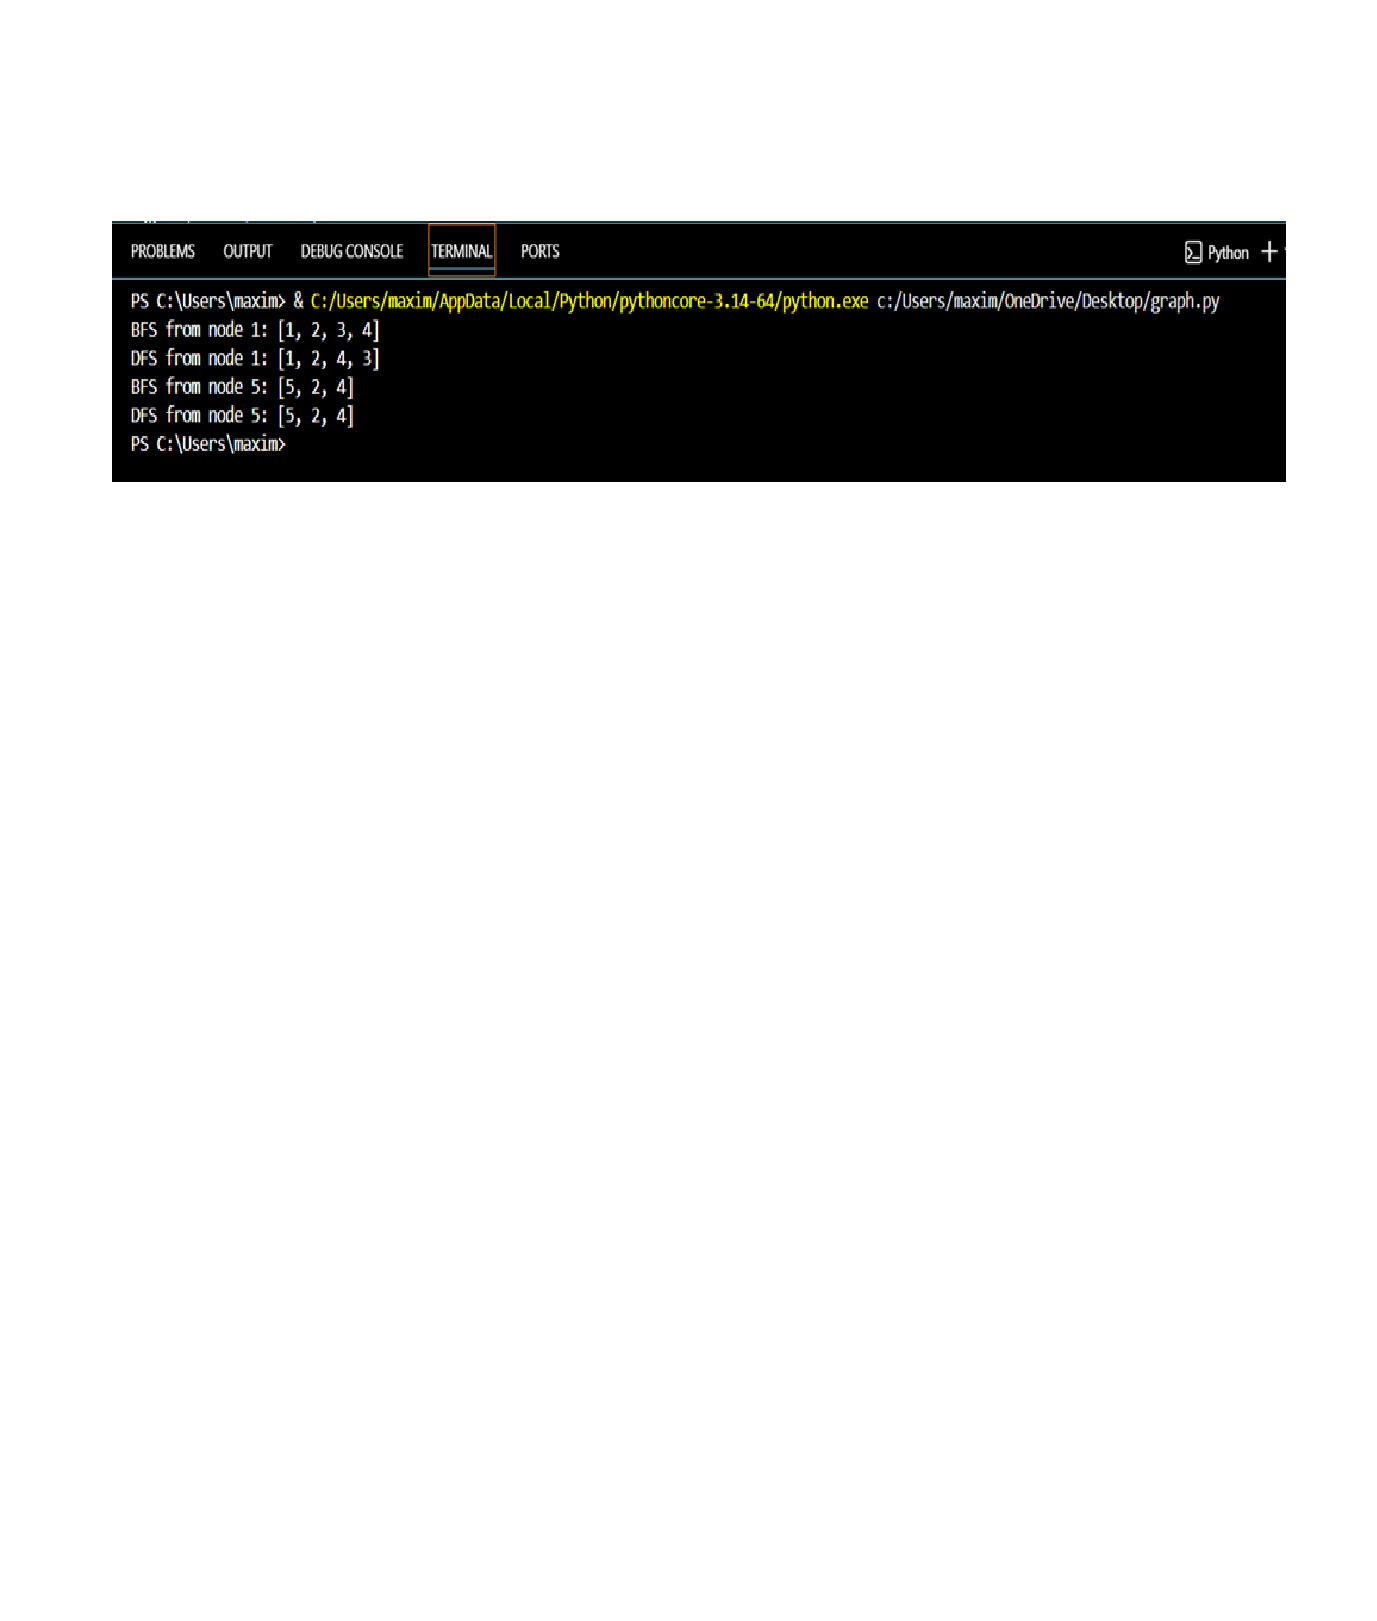
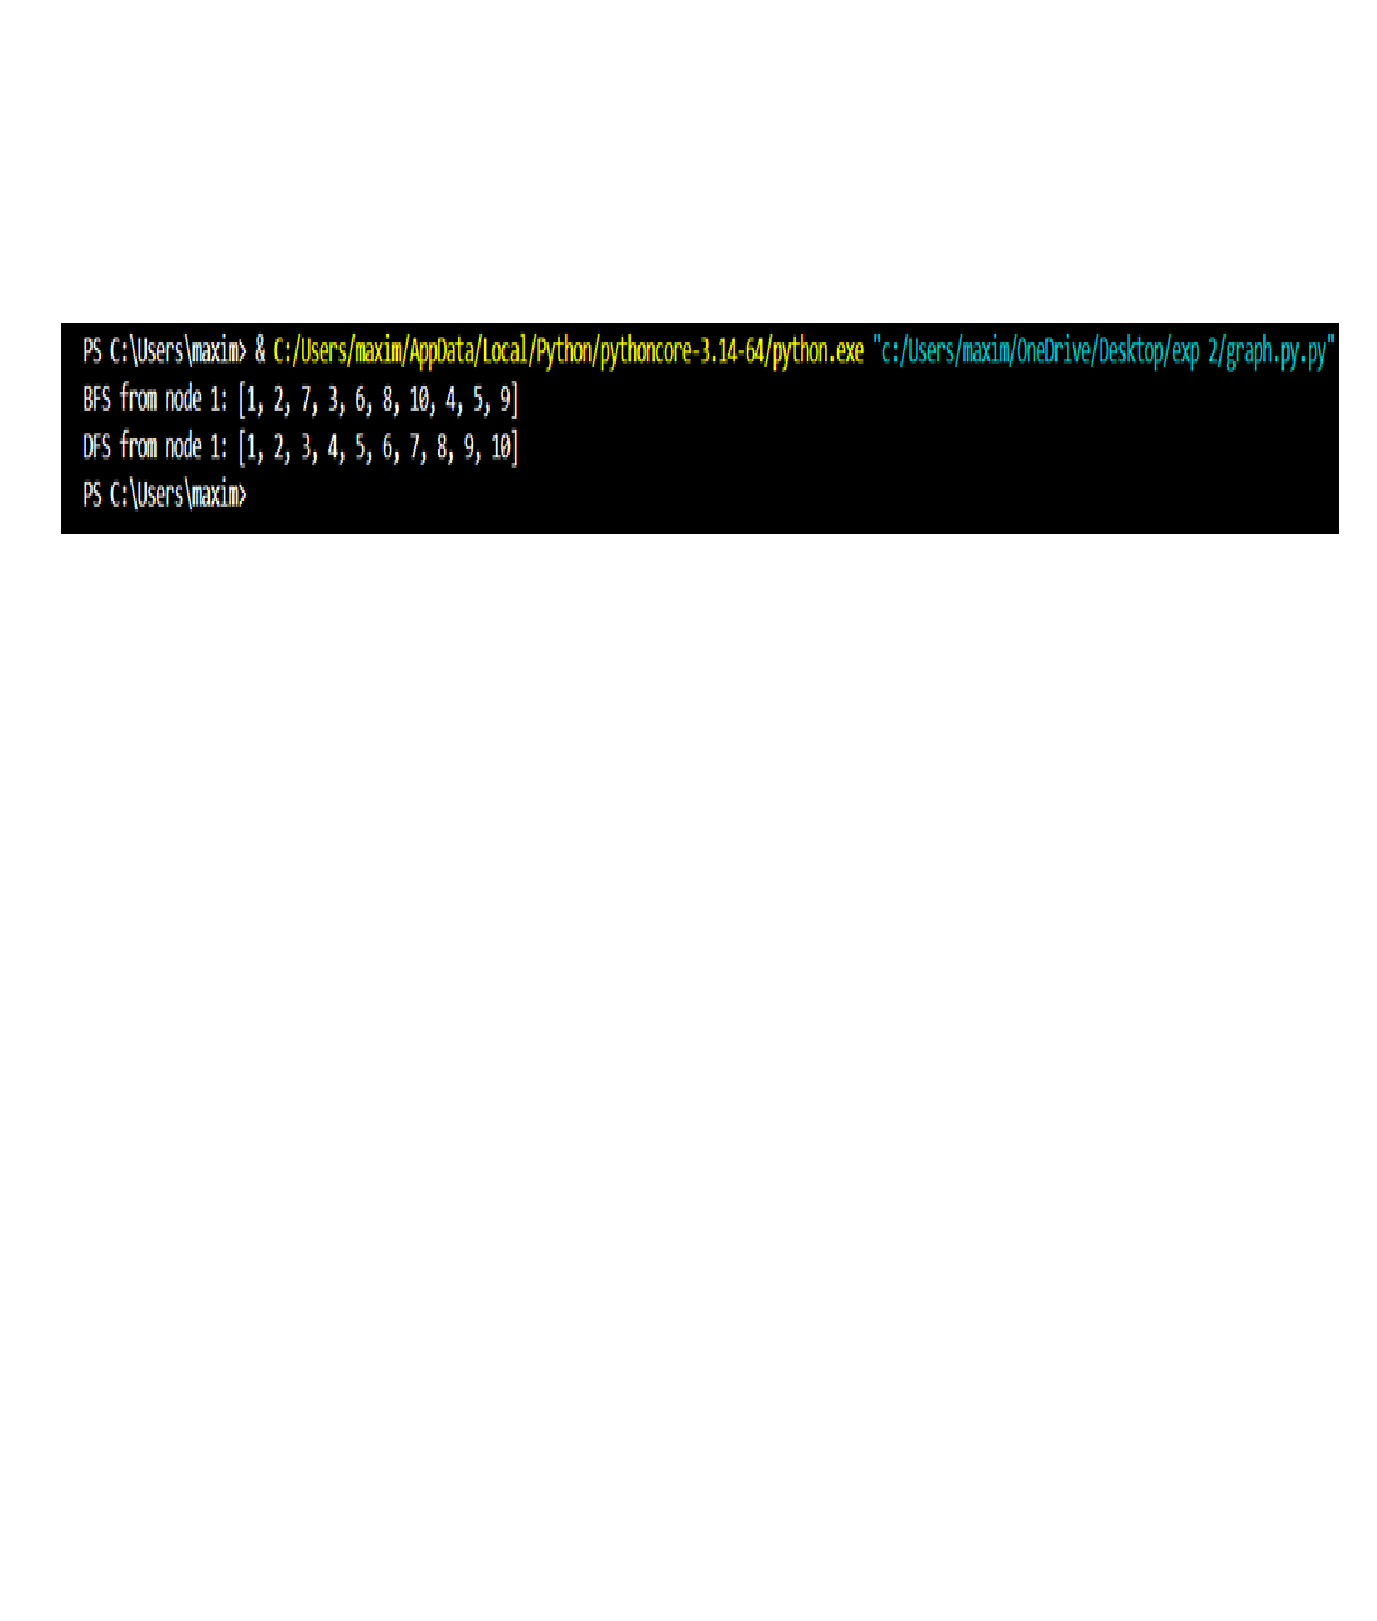
Add files via upload

Changed region(s): [[0.0312, 0.1234, 0.9993, 0.3393]]

diff --git a/graph.py.py b/graph.py.py
@@ -1,0 +1,35 @@
+from collections import defaultdict, deque
+
+graph = defaultdict(list)
+
+edges = [(1,2), (1,7), (2,3), (2,6), (3,4), (3,5), (7,8), (7,10), (8,9)]
+for u, v in edges:
+    graph[u].append(v)
+
+def bfs(start):
+    visited = set()
+    queue = deque([start])
+    visited.add(start)
+    order = []
+    while queue:
+        node = queue.popleft()
+        order.append(node)
+        for neighbor in graph[node]:
+            if neighbor not in visited:
+                visited.add(neighbor)
+                queue.append(neighbor)
+    return order
+
+def dfs(start, visited=None, order=None):
+    if visited is None:
+        visited = set()
+        order = []
+    visited.add(start)
+    order.append(start)
+    for neighbor in graph[start]:
+        if neighbor not in visited:
+            dfs(neighbor, visited, order)
+    return order
+
+print("BFS from node 1:", bfs(1))
+print("DFS from node 1:", dfs(1))